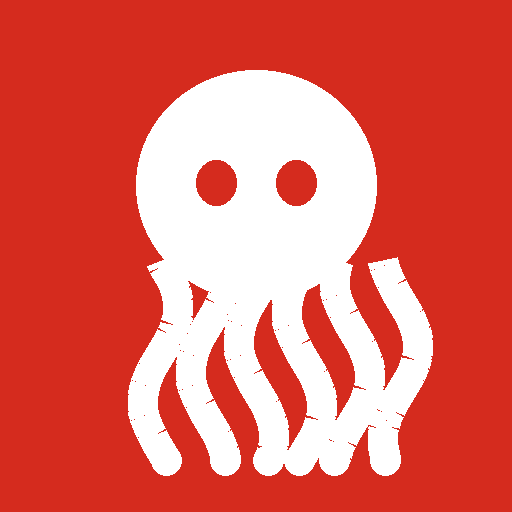
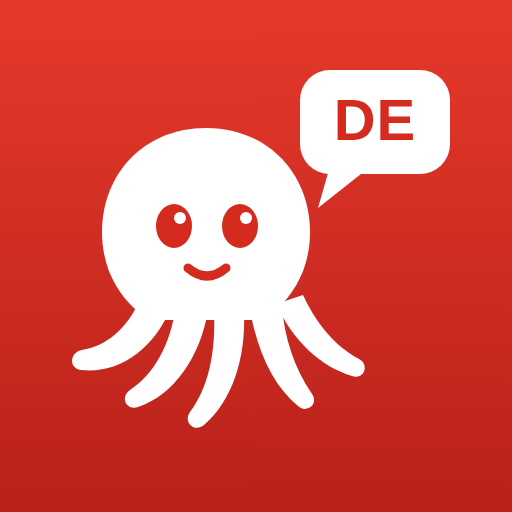
Nuova icona Polpo Lingue
Claude-Session: https://claude.ai/code/session_01ENCQyHqMaWYCdVR6MYbnkd

diff --git a/sw.js b/sw.js
@@ -1,4 +1,4 @@
-const V='polpo-v3';
+const V='polpo-v4';
 self.addEventListener('install',e=>{e.waitUntil(caches.open(V).then(c=>c.addAll(['./','./index.html','./manifest.webmanifest','./icon-192.png'])));self.skipWaiting()});
 self.addEventListener('activate',e=>{e.waitUntil(caches.keys().then(ks=>Promise.all(ks.filter(k=>k!==V).map(k=>caches.delete(k)))).then(()=>self.clients.claim()))});
 self.addEventListener('fetch',e=>{const r=e.request;if(r.method!=='GET')return;const u=new URL(r.url);
